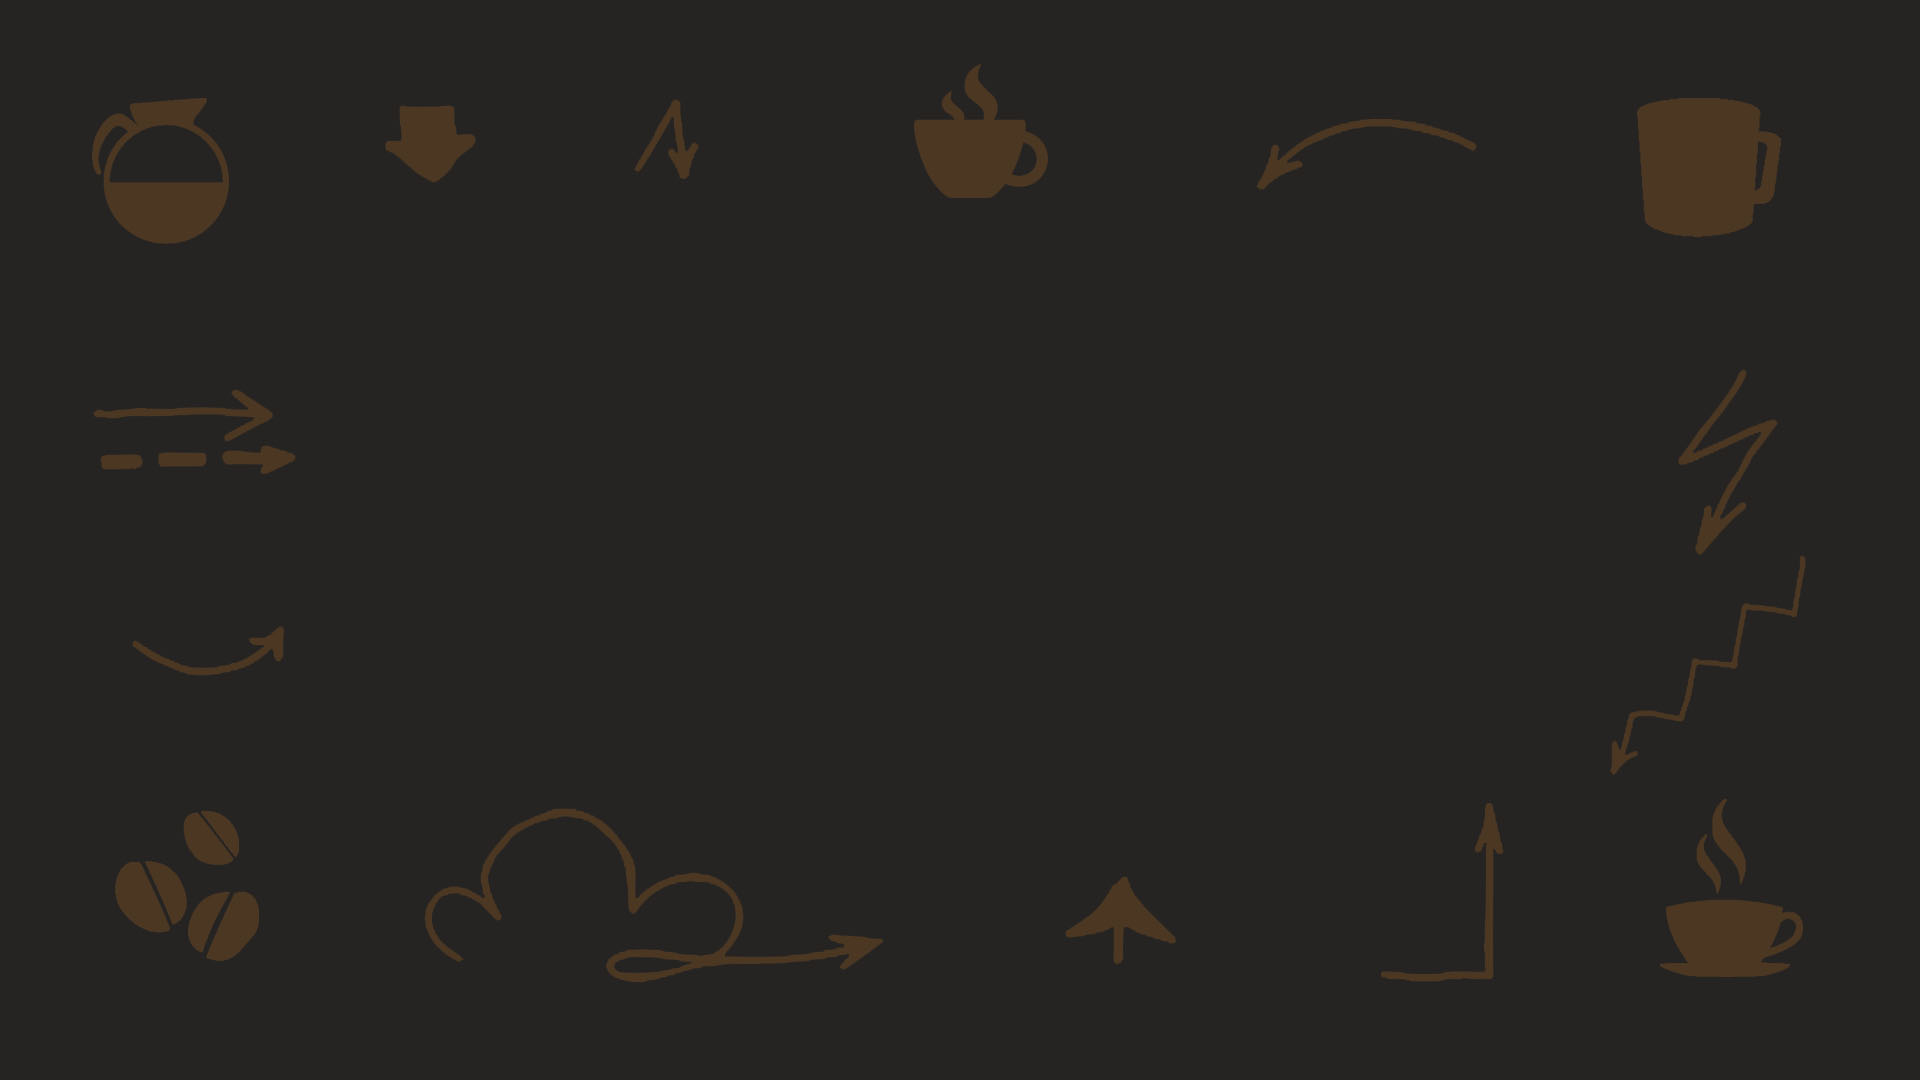
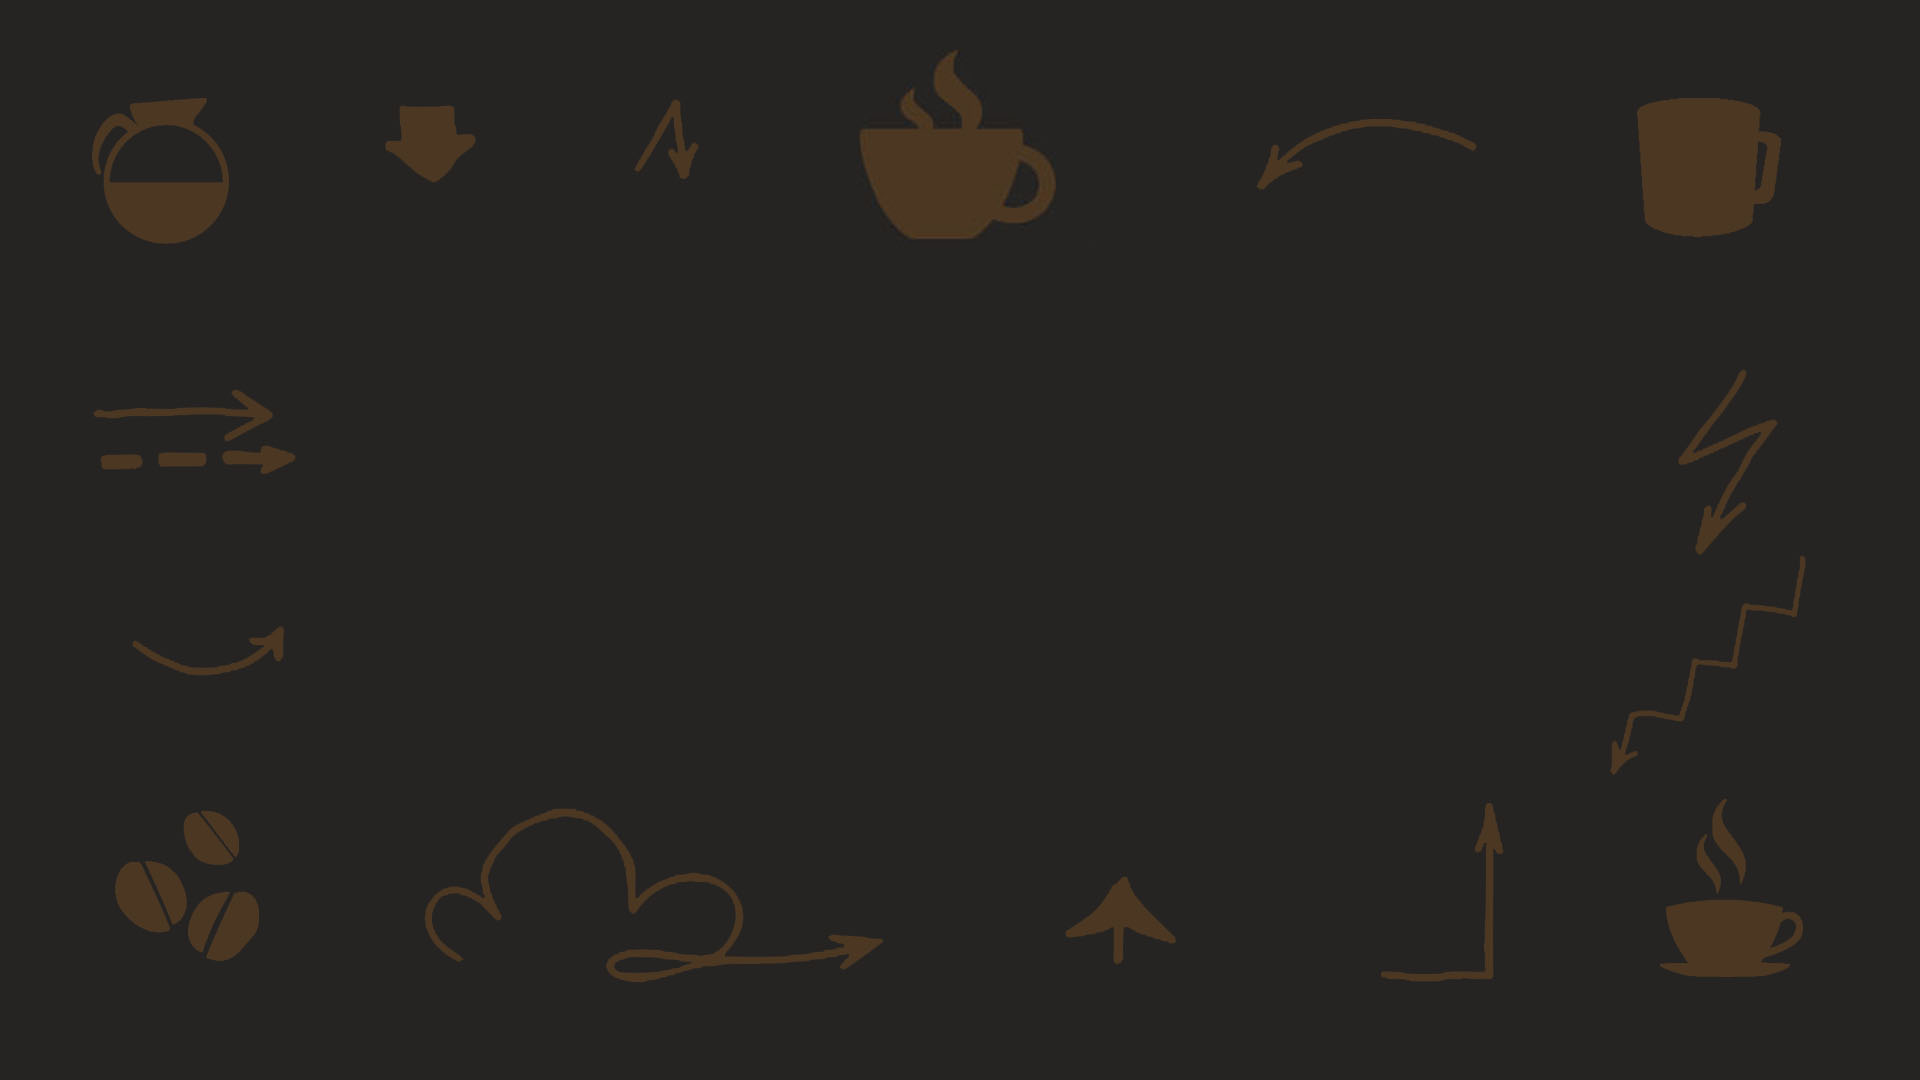
cafe

Changed region(s): [[0.4375, 0.0611, 0.5625, 0.2444]]

diff --git a/index.html b/index.html
@@ -25,9 +25,19 @@
 				</section>
 
 				<section data-state="slide-coffee-food" class="title" data-transition="fade">
-					<h2>Amo el Café</h2>
-					<script src="https://unpkg.com/@dotlottie/player-component@2.7.12/dist/dotlottie-player.mjs" type="module"></script>
-					<dotlottie-player src="https://lottie.host/0997dcb0-806d-45ce-b8cc-e7ae43a76fea/aHylTF07wx.lottie" background="transparent" speed="1" style="width: 400px; height: 400px" loop autoplay></dotlottie-player>
+
+					<div class="container-cafe">
+						<div class="columna-cafe"><img src="images/coffee1.png" alt=""><img src="images/coffee0.png" alt=""></div>
+						<div class="columna-cafe"><img src="images/coffee2.jpg" alt=""></div>
+						<div class="columna-cafe">
+							<script src="https://unpkg.com/@dotlottie/player-component@2.7.12/dist/dotlottie-player.mjs" type="module"></script>
+							<dotlottie-player src="https://lottie.host/0997dcb0-806d-45ce-b8cc-e7ae43a76fea/aHylTF07wx.lottie" background="transparent" speed="1" style="width: 320px; height: 500px" loop autoplay></dotlottie-player>
+						</div>
+
+					  </div>
+
+
+
 				</section>
 				
 				<section data-state="slide-movies" class="title" data-transition="fade">
@@ -372,9 +382,43 @@
 					  </div>
 				</section>
 
+				<section data-state="slide-music" data-transition="fade">
+					<h3>Smashing Pumpkins - 2024</h3>
+					<div class="r-stack">
+						<img
+						  class="fragment"
+						  src="images/sp-1.jpg"
+						  width="600"
+						  height="auto"
+						/>
+
+						<img
+						class="fragment image-355deg"
+						src="images/sp-3.jpg"
+						width="250"
+						height="auto"
+
+					  />
+						<img
+						  class="fragment image-5deg"
+						  src="images/sp-2.jpeg"
+						  width="450"
+						  height="auto"
+
+						/>
+						<img
+						class="fragment"
+						src="images/sp-4.jpeg"
+						width="450"
+						height="auto"
+
+					  />
+					  </div>
+				</section>
+
 			</div>
 		</div>
-
+        <script src="js/bg.js"></script>
 		<script src="dist/reveal.js"></script>
 		<script src="plugin/notes/notes.js"></script>
 		<script src="plugin/markdown/markdown.js"></script>

diff --git a/css/style.css b/css/style.css
@@ -216,3 +216,22 @@ html {
       grid-template-columns: repeat(5, 1fr); /* 5 images per row on medium screens */
   }
 }
+
+
+.container-cafe {
+  display: flex;
+  flex-wrap: wrap; /* Permite que las columnas se ajusten en pantallas pequeñas */
+  gap: 5px; /* Espaciado entre columnas */
+  align-items: center;
+}
+
+.columna-cafe {
+  flex: 1 1 30%; /* Establece que cada columna ocupe el 30% del espacio disponible */
+  box-sizing: border-box; /* Para que el padding no afecte el tamaño */
+
+}
+
+.columna-cafe img{
+  width:60%;
+  height:auto;
+}

diff --git a/js/bg.js b/js/bg.js
@@ -1,0 +1,12 @@
+const preloadImages = [
+    "../images/b-main.jpg",
+    "../images/z.jpg",
+    "../images/b-movies.jpg",
+    "../images/b-music.jpg",
+    "../images/b-games.jpg"
+  ];
+  
+  preloadImages.forEach((src) => {
+    const img = new Image();
+    img.src = src;
+  });
